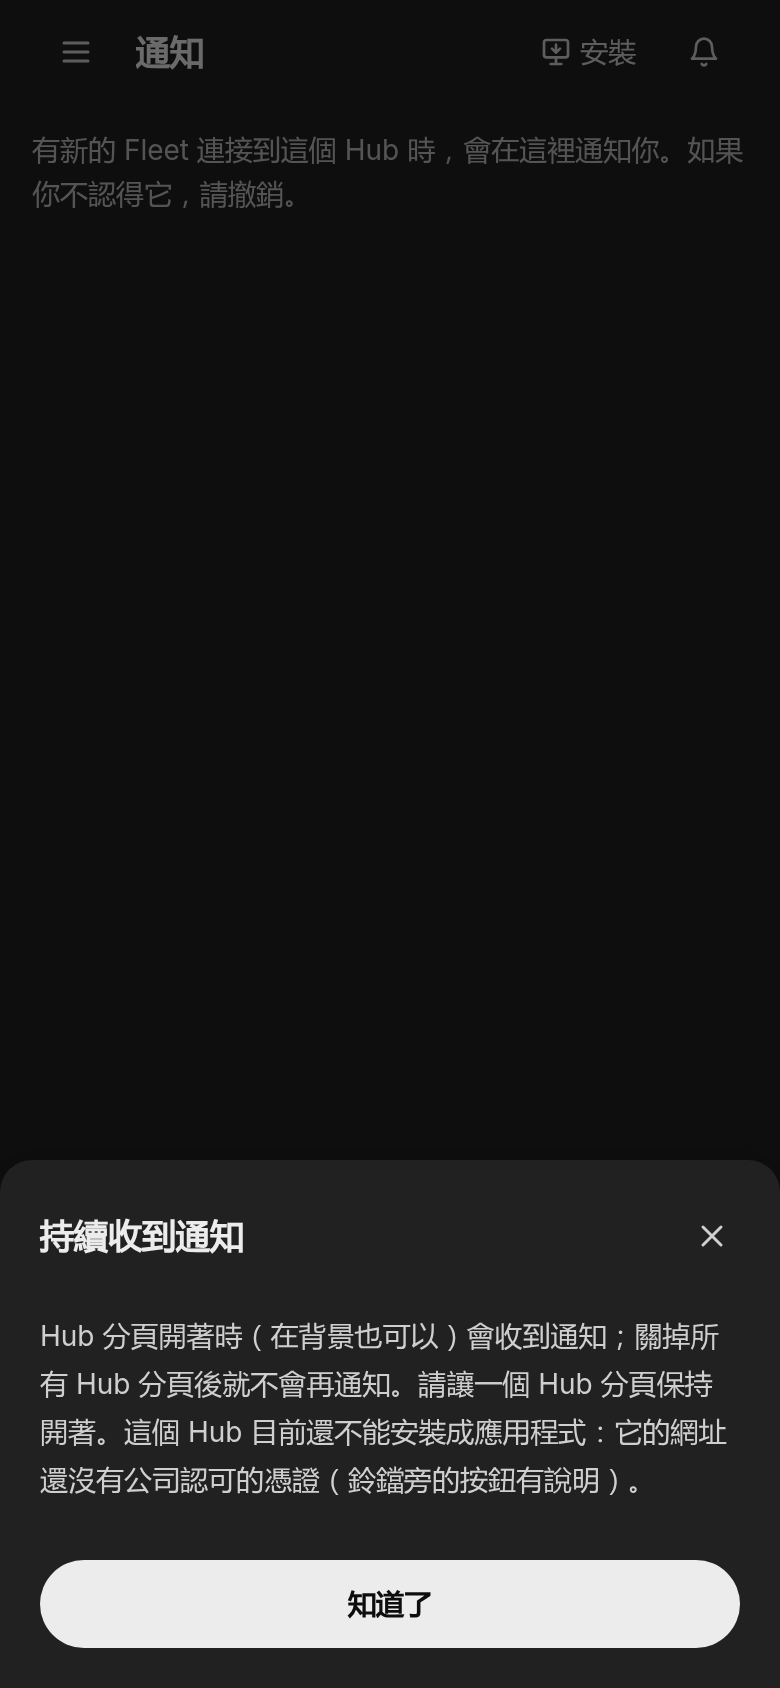
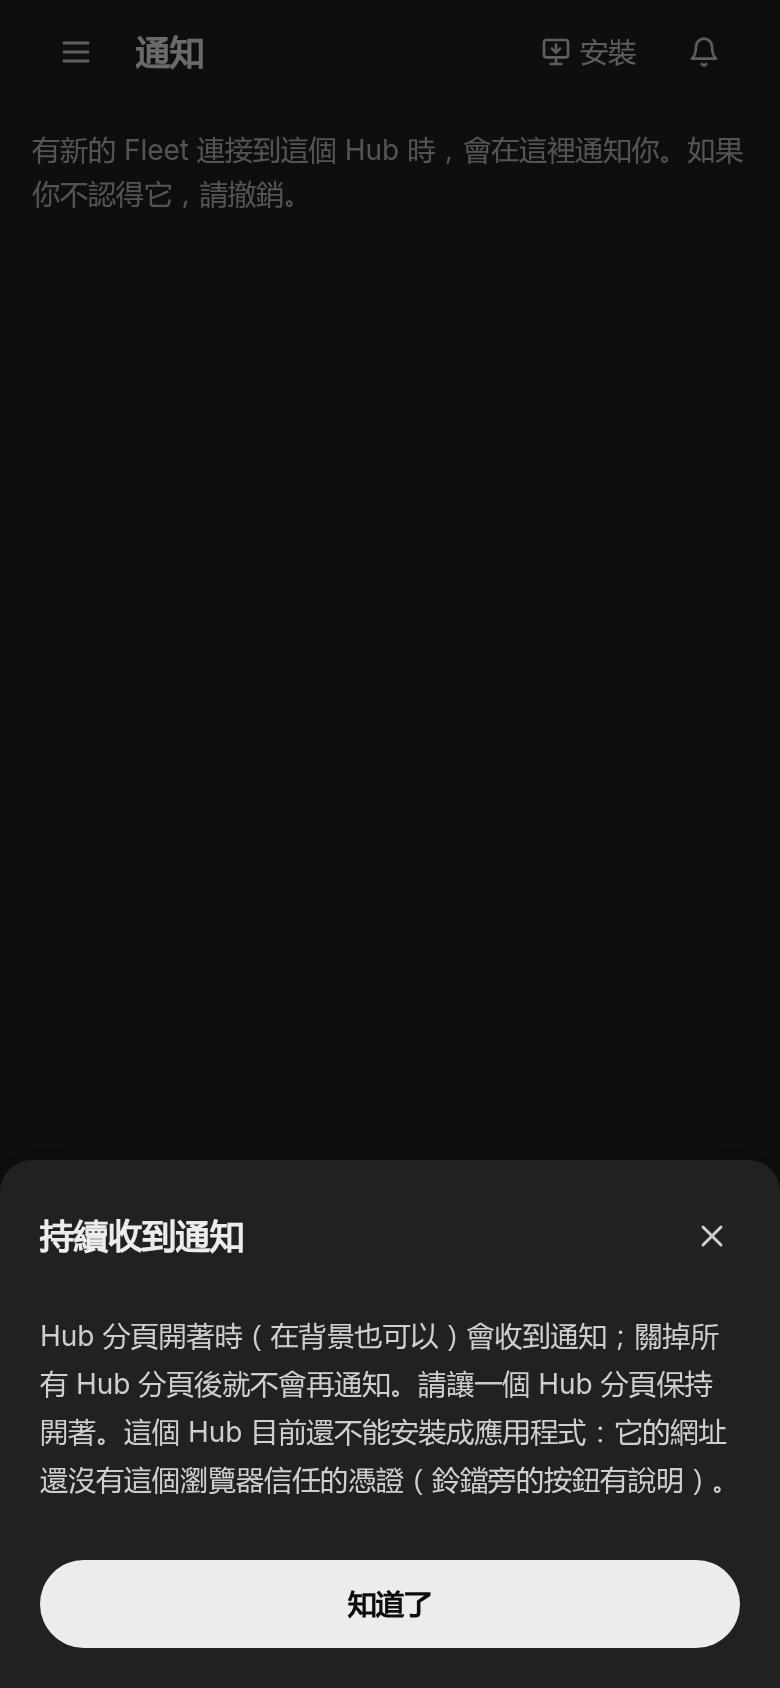
fix(hub): the cannot-install words never say company (#2906); the Hub module list pin includes hub-notify-keep.js (#4548 CI)

Changed region(s): [[0.1538, 0.8626, 0.8923, 0.8934]]

diff --git a/src/ui/hub-notify-keep.js b/src/ui/hub-notify-keep.js
@@ -12,14 +12,14 @@ register("hubkeep", {
     title: "Keep notifications coming",
     tab: "Notifications arrive while a Hub tab is open, even in the background; closing every Hub tab stops them. To keep them coming, install the Hub as an app (the button beside the bell) and leave it running, minimized is fine. In Edge or Chrome, the app's settings also offer \"Start app when you sign in\".",
     app: "Notifications arrive while this app is open, even minimized; quitting it stops them. Leave it running. In Edge or Chrome, the app's settings offer \"Start app when you sign in\", so it is there after a restart.",
-    noInstall: "Notifications arrive while a Hub tab is open, even in the background; closing every Hub tab stops them. Keep a Hub tab open. This Hub can't be installed as an app yet: its address doesn't have a certificate your company's computers trust (the button beside the bell says more).",
+    noInstall: "Notifications arrive while a Hub tab is open, even in the background; closing every Hub tab stops them. Keep a Hub tab open. This Hub can't be installed as an app yet: its address doesn't have a certificate this browser trusts yet (the button beside the bell says more).",
     ok: "OK",
   },
   "zh-TW": {
     title: "持續收到通知",
     tab: "Hub 分頁開著時（在背景也可以）會收到通知；關掉所有 Hub 分頁後就不會再通知。想一直收到，可以把 Hub 安裝成應用程式（鈴鐺旁的按鈕）並讓它保持開著，縮到最小也可以。在 Edge 或 Chrome 的應用程式設定中，也可以開啟「登入時啟動應用程式」。",
     app: "這個應用程式開著時（縮到最小也可以）會收到通知；把它關掉就不會再通知。請讓它保持開著。在 Edge 或 Chrome 的應用程式設定中，可以開啟「登入時啟動應用程式」，重新開機後也會自動開啟。",
-    noInstall: "Hub 分頁開著時（在背景也可以）會收到通知；關掉所有 Hub 分頁後就不會再通知。請讓一個 Hub 分頁保持開著。這個 Hub 目前還不能安裝成應用程式：它的網址還沒有公司認可的憑證（鈴鐺旁的按鈕有說明）。",
+    noInstall: "Hub 分頁開著時（在背景也可以）會收到通知；關掉所有 Hub 分頁後就不會再通知。請讓一個 Hub 分頁保持開著。這個 Hub 目前還不能安裝成應用程式：它的網址還沒有這個瀏覽器信任的憑證（鈴鐺旁的按鈕有說明）。",
     ok: "知道了",
   },
 });

diff --git a/tests/hub-shared-modules-a.test.ts b/tests/hub-shared-modules-a.test.ts
@@ -41,7 +41,7 @@ describe("where the shared chat modules are served (#3226 PR A)", () => {
     }
   });
   it("the Hub's own module list holds only Hub modules: it reaches the shared ones through /assets/", () => {
-    expect([...HUB_UI_MODULES]).toEqual(["panel-hub.js", "hub-personal-agent.js", "hub-personal-agent-strings.js", "runtime-commands.js", "hub-client.js", "hub-strings.js", "hub-chat-store.js", "hub-chat-strings.js", "hub-quota.js", "hub-agent-intro.js", "hub-intro-notice.js", "hub-owner-strings.js", "hub-grant-strings.js", "hub-button-actions.js", "hub-preview.js", "hub-attachments.js",
+    expect([...HUB_UI_MODULES]).toEqual(["panel-hub.js", "hub-notify-keep.js", "hub-personal-agent.js", "hub-personal-agent-strings.js", "runtime-commands.js", "hub-client.js", "hub-strings.js", "hub-chat-store.js", "hub-chat-strings.js", "hub-quota.js", "hub-agent-intro.js", "hub-intro-notice.js", "hub-owner-strings.js", "hub-grant-strings.js", "hub-button-actions.js", "hub-preview.js", "hub-attachments.js",
       "hub-welcome.js", "hub-group-policy.js", "hub-group-strings.js", "hub-read-strings.js", "hub-quick-pairing.js", "hub-quick-strings.js", "hub-company-join.js", "hub-company-join-strings.js", "hub-this-hub.js", "hub-directory-notices.js", "hub-directory-notice-strings.js", "hub-directory-editor.js", "hub-directory-editor-strings.js",   // #3298 S-89/S-90
       "hub-my-agents.js", "hub-my-agents-model.js", "hub-my-agents-strings.js", "hub-group-search.js", "hub-join-steps.js", "hub-grant-picker.js", "hub-subject-picker.js", "hub-policy-subjects.js",
       "hub-enrolment-code.js", "hub-enrolment-code-strings.js", "hub-join-queue.js", "hub-join-approval.js", "hub-joincode-flow-strings.js",   // Hub UX U2 (M-2932)

diff --git a/docs/evidence/hub-notify-keep-s257/README.md b/docs/evidence/hub-notify-keep-s257/README.md
@@ -28,7 +28,7 @@ about outbound access from the Hub VM (design note on M-3828).
 | Notice: browser tab, installable Hub (faked trust) | [tab](hub-desk-light-en-tab-keep.png) | [tab](hub-phone-dark-zh-TW-tab-keep.png) |
 | Notice: installed app (faked display-mode) | [app](hub-desk-light-en-app-keep.png) | [app](hub-phone-dark-zh-TW-app-keep.png) |
 
-The cannot-install wording is plainer after the leader's capture check: "its address doesn't have a certificate your company's computers trust" / 「它的網址還沒有公司認可的憑證」.
+The cannot-install wording is plainer after the leader's capture check: "its address doesn't have a certificate this browser trusts yet" / 「它的網址還沒有這個瀏覽器信任的憑證」. The leader's 「公司認可」 suggestion was not used: network copy never says 公司/company (the user's rule, #2906, enforced by tests/named-link-test-2906.test.ts).
 
 Review fixes (Prism #4548):
 - The action and its words live in a new module, `hub-notify-keep.js` (its own `hubkeep` strings, both locales; in HUB_UI_MODULES). A tab holding the previous hub-room-notify.js or hub-room-strings.js still links and still reads the words.
